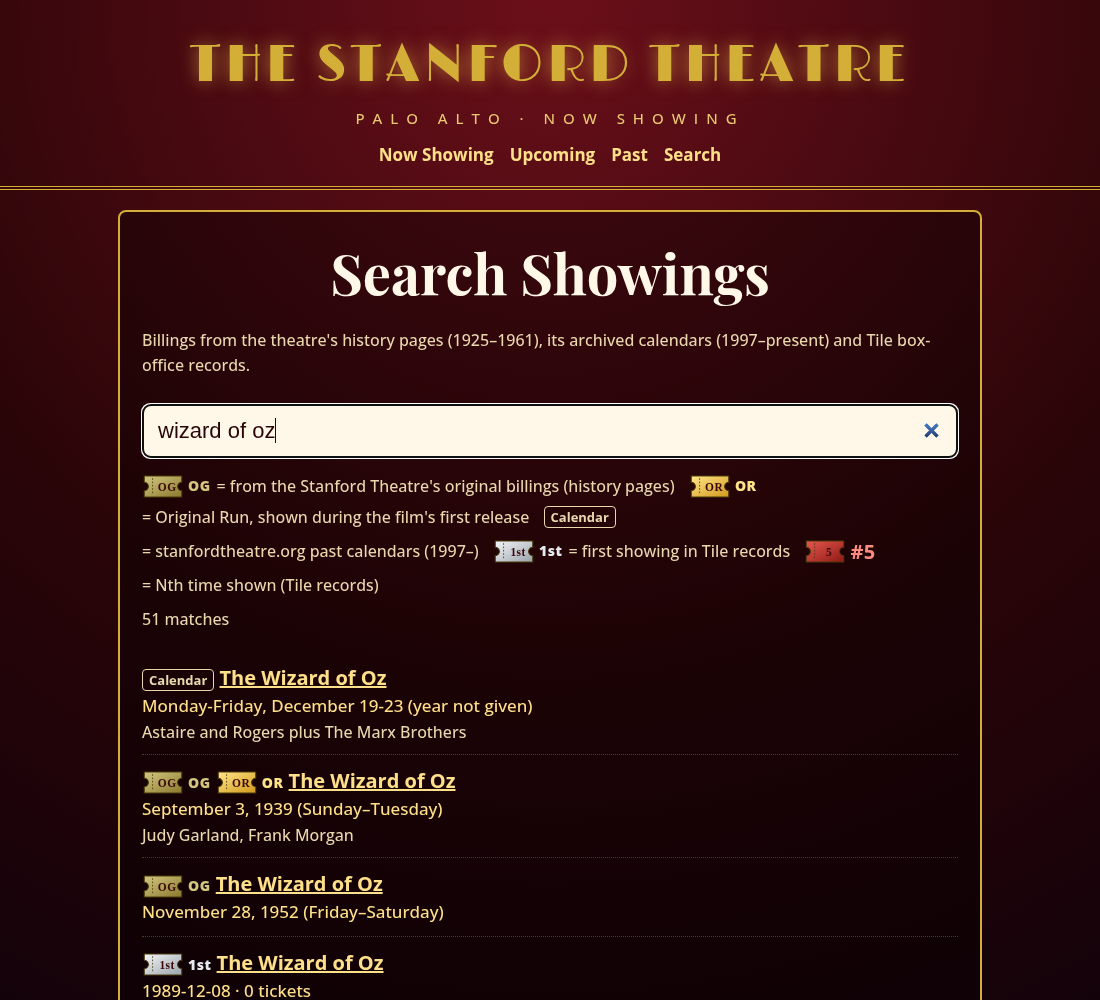
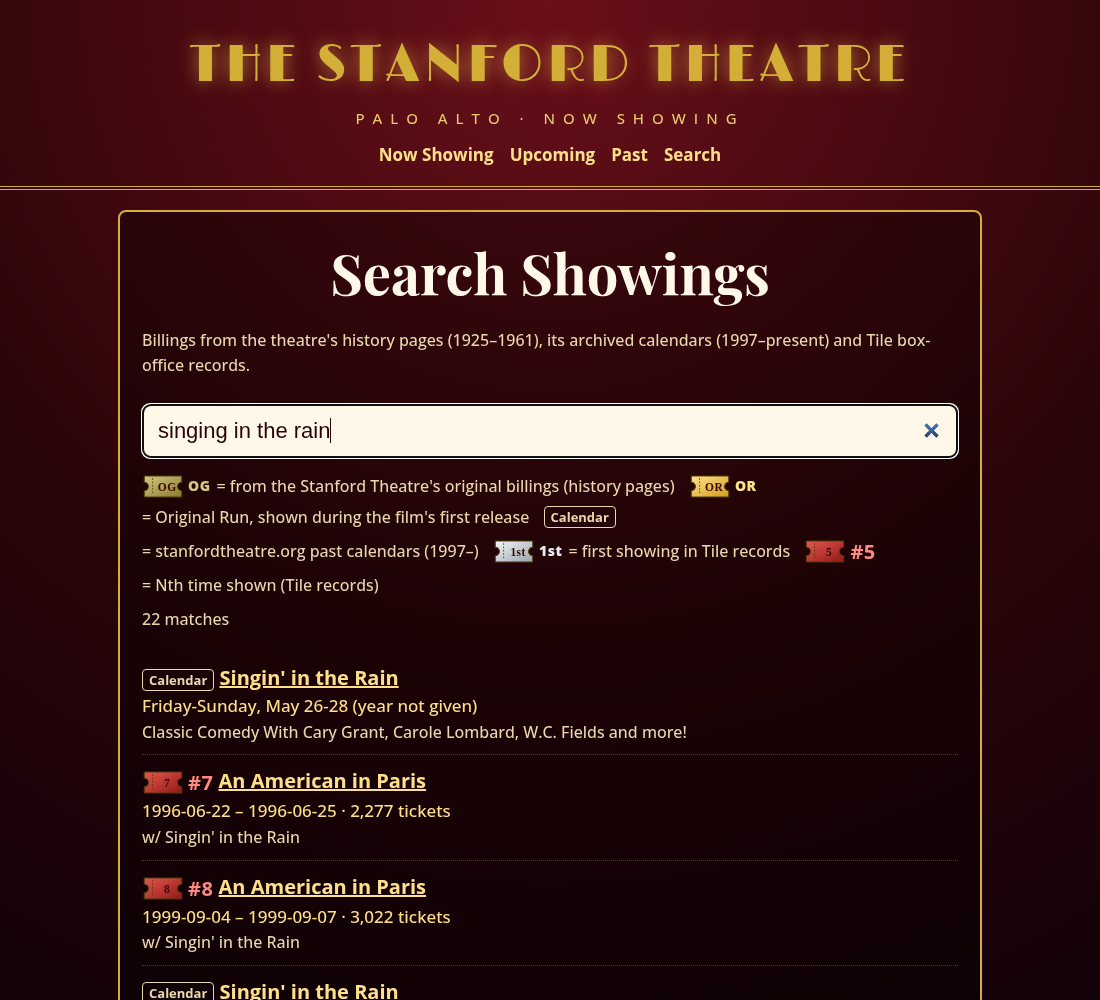
Fuzzy search

Changed region(s): [[0.1236, 0.775, 0.4327, 1.0], [0.1236, 0.651, 0.6182, 0.744], [0.1545, 0.403, 0.3091, 0.465]]

diff --git a/search.html b/search.html
@@ -6,8 +6,12 @@
 <script src="data/showings.js"></script><script>
 var OG="<svg class=\"tk\" viewBox=\"0 0 40 24\" width=\"42\" height=\"25\" aria-hidden=\"true\"><defs><linearGradient id=\"gog\" x1=\"0\" y1=\"0\" x2=\"1\" y2=\"1\"><stop offset=\"0\" stop-color=\"#d3c780\"/><stop offset=\"1\" stop-color=\"#8a7a2e\"/></linearGradient></defs><path d=\"M2 2h36v6a4 4 0 0 0 0 8v6H2v-6a4 4 0 0 0 0-8z\" fill=\"url(#gog)\" stroke=\"#4a3a0a\" stroke-width=\"1\"/><path d=\"M10 4v16\" stroke=\"#4a3a0a\" stroke-width=\".8\" stroke-dasharray=\"1.6 1.6\"/><text x=\"24\" y=\"16\" font-size=\"11\" font-family=\"Georgia,serif\" font-weight=\"700\" fill=\"#3a0608\" text-anchor=\"middle\">OG</text></svg>",OR="<svg class=\"tk\" viewBox=\"0 0 40 24\" width=\"42\" height=\"25\" aria-hidden=\"true\"><defs><linearGradient id=\"gor\" x1=\"0\" y1=\"0\" x2=\"1\" y2=\"1\"><stop offset=\"0\" stop-color=\"#ffe58a\"/><stop offset=\"1\" stop-color=\"#d29a1c\"/></linearGradient></defs><path d=\"M2 2h36v6a4 4 0 0 0 0 8v6H2v-6a4 4 0 0 0 0-8z\" fill=\"url(#gor)\" stroke=\"#4a3a0a\" stroke-width=\"1\"/><path d=\"M10 4v16\" stroke=\"#4a3a0a\" stroke-width=\".8\" stroke-dasharray=\"1.6 1.6\"/><text x=\"24\" y=\"16\" font-size=\"11\" font-family=\"Georgia,serif\" font-weight=\"700\" fill=\"#3a0608\" text-anchor=\"middle\">OR</text></svg>",S1="<svg class=\"tk\" viewBox=\"0 0 40 24\" width=\"42\" height=\"25\" aria-hidden=\"true\"><defs><linearGradient id=\"gs1\" x1=\"0\" y1=\"0\" x2=\"1\" y2=\"1\"><stop offset=\"0\" stop-color=\"#f4f6f8\"/><stop offset=\"1\" stop-color=\"#9aa3ab\"/></linearGradient></defs><path d=\"M2 2h36v6a4 4 0 0 0 0 8v6H2v-6a4 4 0 0 0 0-8z\" fill=\"url(#gs1)\" stroke=\"#4a3a0a\" stroke-width=\"1\"/><path d=\"M10 4v16\" stroke=\"#4a3a0a\" stroke-width=\".8\" stroke-dasharray=\"1.6 1.6\"/><text x=\"24\" y=\"16\" font-size=\"11\" font-family=\"Georgia,serif\" font-weight=\"700\" fill=\"#3a0608\" text-anchor=\"middle\">1st</text></svg>",RT="<svg class=\"tk\" viewBox=\"0 0 40 24\" width=\"42\" height=\"25\" aria-hidden=\"true\"><defs><linearGradient id=\"grt\" x1=\"0\" y1=\"0\" x2=\"1\" y2=\"1\"><stop offset=\"0\" stop-color=\"#e8564f\"/><stop offset=\"1\" stop-color=\"#8e1a16\"/></linearGradient></defs><path d=\"M2 2h36v6a4 4 0 0 0 0 8v6H2v-6a4 4 0 0 0 0-8z\" fill=\"url(#grt)\" stroke=\"#4a3a0a\" stroke-width=\"1\"/><path d=\"M10 4v16\" stroke=\"#4a3a0a\" stroke-width=\".8\" stroke-dasharray=\"1.6 1.6\"/><text x=\"24\" y=\"16\" font-size=\"11\" font-family=\"Georgia,serif\" font-weight=\"700\" fill=\"#3a0608\" text-anchor=\"middle\">@N@</text></svg>",TOG="From the Stanford Theatre&#39;s original billings",TOR="Original Run \u2014 shown during the film&#39;s first release";var D=window.SHOWINGS,q=document.getElementById('q'),R=document.getElementById('res'),C=document.getElementById('count');
 function esc(s){return String(s).replace(/[&<>"]/g,function(c){return{'&':'&amp;','<':'&lt;','>':'&gt;','"':'&quot;'}[c]})}
+function N(s){s=String(s).normalize('NFD').replace(/[̀-ͯ]/g,'').toLowerCase().replace(/&/g,' and ').replace(/['’`]/g,'').replace(/[^a-z0-9]+/g,' ');return s.split(' ').filter(function(w){return w&&w!='the'&&w!='a'&&w!='an'}).map(function(w){return w.length>4&&/ing$/.test(w)?w.slice(0,-1):w}).join(' ')}
+function TK(s){return s?s.split(' '):[]}
+function ED(a,b,k){if(Math.abs(a.length-b.length)>k)return false;var p=[],i,j;for(j=0;j<=b.length;j++)p[j]=j;for(i=1;i<=a.length;i++){var c=[i],mn=i;for(j=1;j<=b.length;j++){c[j]=Math.min(p[j]+1,c[j-1]+1,p[j-1]+(a[i-1]==b[j-1]?0:1));if(c[j]<mn)mn=c[j]}if(mn>k)return false;p=c}return p[b.length]<=k}
 function go(){var v=q.value.trim().toLowerCase();if(v.length<2){R.innerHTML='';C.textContent=D.length.toLocaleString()+' showings indexed. Type at least 2 characters.';return}
-var m=D.filter(function(o){return (o.title+' '+o.note+' '+o.start).toLowerCase().indexOf(v)>=0});C.textContent=m.length.toLocaleString()+' matches'+(m.length>300?' (showing first 300)':'');
+var nq=N(v),qa=TK(nq),qt=qa.filter(function(q){return q.length>=4});if(!qt.length)qt=qa;var m1=[],m2=[];D.forEach(function(o){if(!o._n){o._n=N(o.title+' '+o.note+' '+o.start);o._t=TK(N(o.title))}
+if(nq&&o._n.indexOf(nq)>=0)m1.push(o);else if(qt.length&&qt.every(function(q){return o._t.some(function(w){return w.indexOf(q)==0||(q.length>=4&&ED(q,w,q.length>=7?2:1))})}))m2.push(o)});var m=m1.concat(m2);C.textContent=m.length.toLocaleString()+' matches'+(m.length>300?' (showing first 300)':'');
 R.innerHTML=m.slice(0,300).map(function(o){var d=o.source=='Tile'?(o.start+(o.end!=o.start?' – '+o.end:'')):o.date_text;
 function ord(n){var s=['th','st','nd','rd'],v=n%100;return n+(s[(v-20)%10]||s[v]||s[0])}
 var b=o.source=='Stanford Theatre calendars'?'<span class="src">Calendar</span>'+(o.badge?' <span class="badge or" title="'+TOR+'">'+OR+'OR</span>':''):(o.source=='Tile'?(o.n==1?'<span class="badge s1" title="First showing in Tile records">'+S1+'1st</span>':'<span class="badge rt" title="'+ord(o.n)+' time shown (Tile records)">'+RT.replace('@N@',o.n)+'#'+o.n+'</span>'):'<span class="badge og" title="'+TOG+'">'+OG+'OG</span>')+(o.badge?' <span class="badge or" title="'+TOR+'">'+OR+'OR</span>':'');

diff --git a/build.py b/build.py
@@ -117,8 +117,12 @@ sb=f'''<section class="fest"><h1>Search Showings</h1><p class="sm">Billings from
 <script src="data/showings.js"></script><script>
 var OG={json.dumps(OG)},OR={json.dumps(OR)},S1={json.dumps(S1)},RT={json.dumps(tk("@N@","#e8564f","#8e1a16","grt"))},TOG={json.dumps(TOG)},TOR={json.dumps(TOR)};var D=window.SHOWINGS,q=document.getElementById('q'),R=document.getElementById('res'),C=document.getElementById('count');
 function esc(s){{return String(s).replace(/[&<>"]/g,function(c){{return{{'&':'&amp;','<':'&lt;','>':'&gt;','"':'&quot;'}}[c]}})}}
+function N(s){{s=String(s).normalize('NFD').replace(/[\u0300-\u036f]/g,'').toLowerCase().replace(/&/g,' and ').replace(/['’`]/g,'').replace(/[^a-z0-9]+/g,' ');return s.split(' ').filter(function(w){{return w&&w!='the'&&w!='a'&&w!='an'}}).map(function(w){{return w.length>4&&/ing$/.test(w)?w.slice(0,-1):w}}).join(' ')}}
+function TK(s){{return s?s.split(' '):[]}}
+function ED(a,b,k){{if(Math.abs(a.length-b.length)>k)return false;var p=[],i,j;for(j=0;j<=b.length;j++)p[j]=j;for(i=1;i<=a.length;i++){{var c=[i],mn=i;for(j=1;j<=b.length;j++){{c[j]=Math.min(p[j]+1,c[j-1]+1,p[j-1]+(a[i-1]==b[j-1]?0:1));if(c[j]<mn)mn=c[j]}}if(mn>k)return false;p=c}}return p[b.length]<=k}}
 function go(){{var v=q.value.trim().toLowerCase();if(v.length<2){{R.innerHTML='';C.textContent=D.length.toLocaleString()+' showings indexed. Type at least 2 characters.';return}}
-var m=D.filter(function(o){{return (o.title+' '+o.note+' '+o.start).toLowerCase().indexOf(v)>=0}});C.textContent=m.length.toLocaleString()+' matches'+(m.length>300?' (showing first 300)':'');
+var nq=N(v),qa=TK(nq),qt=qa.filter(function(q){{return q.length>=4}});if(!qt.length)qt=qa;var m1=[],m2=[];D.forEach(function(o){{if(!o._n){{o._n=N(o.title+' '+o.note+' '+o.start);o._t=TK(N(o.title))}}
+if(nq&&o._n.indexOf(nq)>=0)m1.push(o);else if(qt.length&&qt.every(function(q){{return o._t.some(function(w){{return w.indexOf(q)==0||(q.length>=4&&ED(q,w,q.length>=7?2:1))}})}}))m2.push(o)}});var m=m1.concat(m2);C.textContent=m.length.toLocaleString()+' matches'+(m.length>300?' (showing first 300)':'');
 R.innerHTML=m.slice(0,300).map(function(o){{var d=o.source=='Tile'?(o.start+(o.end!=o.start?' – '+o.end:'')):o.date_text;
 function ord(n){{var s=['th','st','nd','rd'],v=n%100;return n+(s[(v-20)%10]||s[v]||s[0])}}
 var b=o.source=='Stanford Theatre calendars'?'<span class="src">Calendar</span>'+(o.badge?' <span class="badge or" title="'+TOR+'">'+OR+'OR</span>':''):(o.source=='Tile'?(o.n==1?'<span class="badge s1" title="First showing in Tile records">'+S1+'1st</span>':'<span class="badge rt" title="'+ord(o.n)+' time shown (Tile records)">'+RT.replace('@N@',o.n)+'#'+o.n+'</span>'):'<span class="badge og" title="'+TOG+'">'+OG+'OG</span>')+(o.badge?' <span class="badge or" title="'+TOR+'">'+OR+'OR</span>':'');
